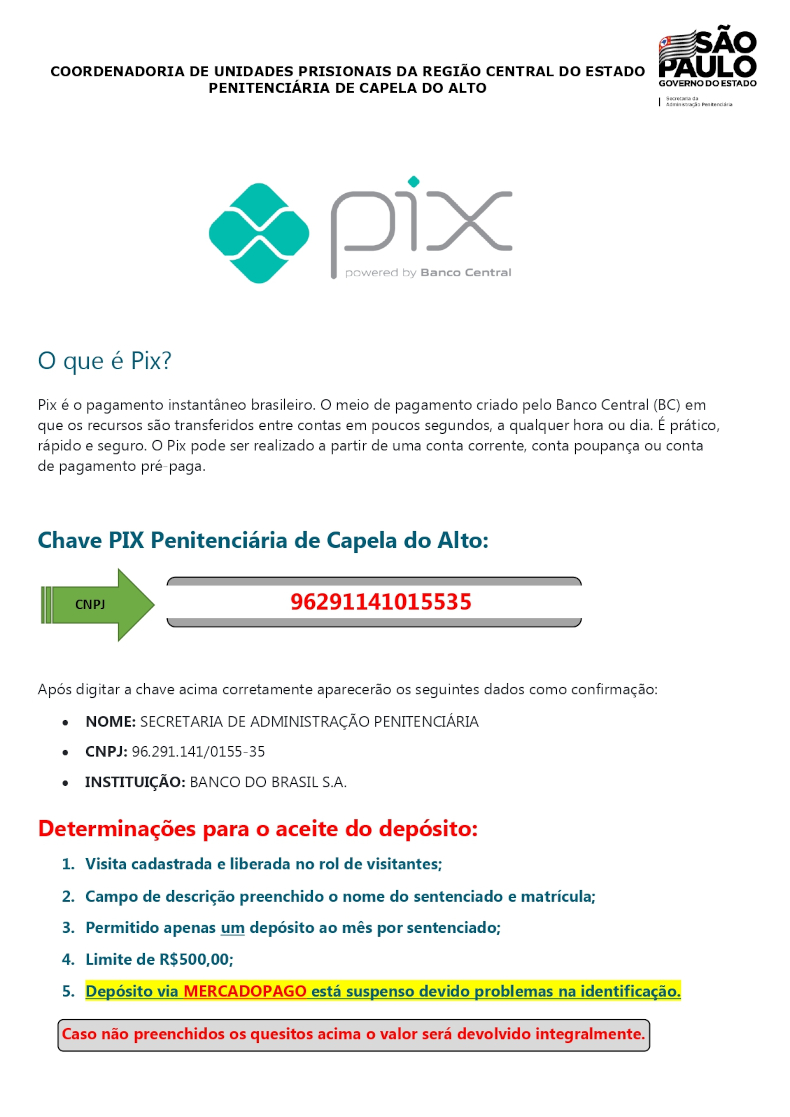
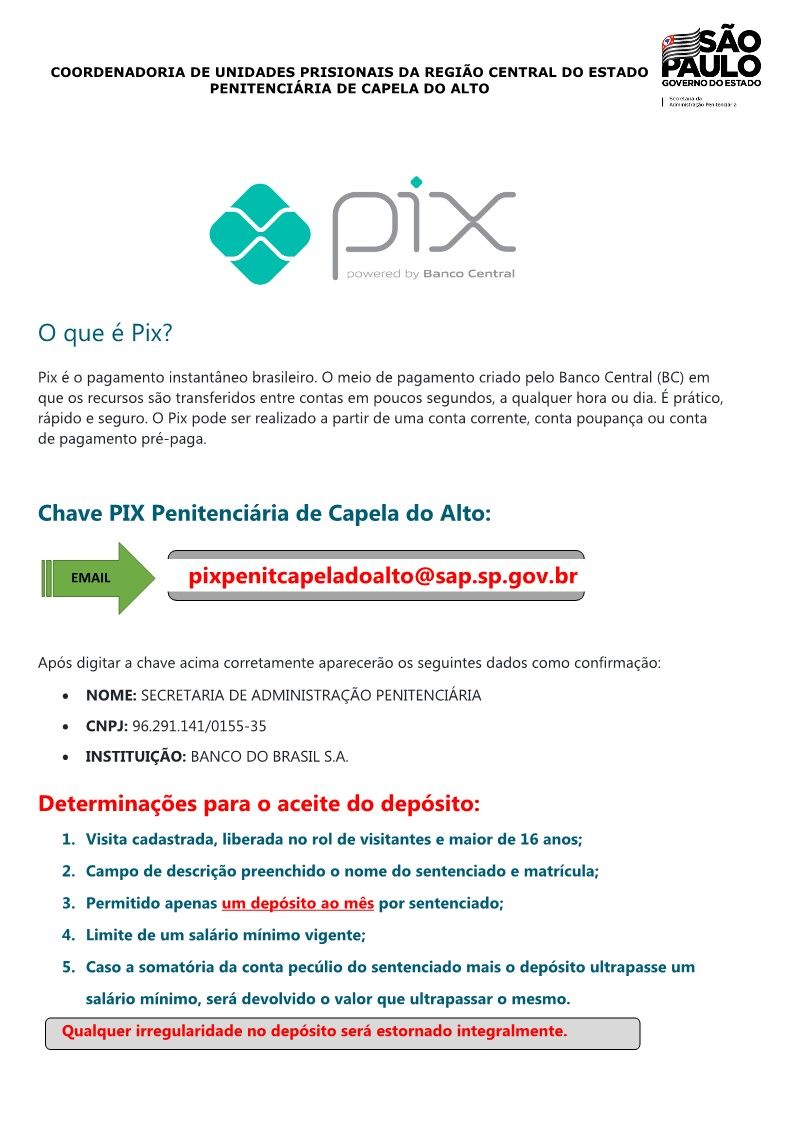
pix e calendário

diff --git a/pix.html b/pix.html
@@ -29,12 +29,11 @@
     <main>
       <section>
         <h2>Informações sobre o Pix</h2>
-        <p>Chave Pix: <strong>96291141015535</strong></p>
+        <p>Chave Pix: <strong>pixpenitcapeladoalto@sap.sp.gov.br</strong></p>
         <img src="imagens/01 - PIX ATUALIZADO.jpg" alt="Informações sobre o Pix">
         <img src="imagens/02 - PIX ATUALIZADO.jpg" alt="Informações sobre o Pix">
       </section>
     </main>
-
 </body>
 <script src="js/script.js"></script>  
 </html>

diff --git a/calendario.html b/calendario.html
@@ -30,7 +30,7 @@
       <section>
         <h2>Calendário de Visitação</h2>
         <img src="imagens/calendario.jpg" alt="Calendário de Visitação">
-        <p style="text-align: center;">Atualizado dia 18/05/2022</p>
+        <p style="text-align: center;">Atualizado dia 01/06/2022</p>
       </section>
     </main>
 </body>
